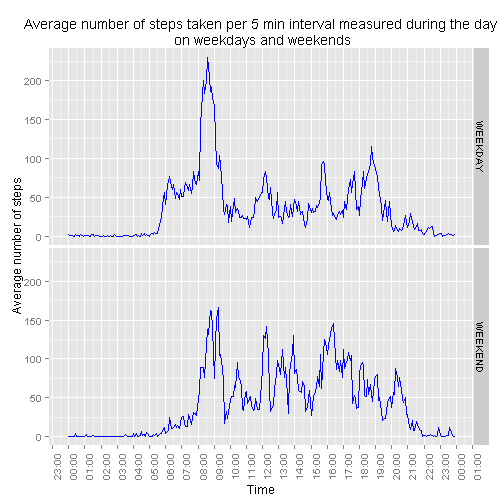
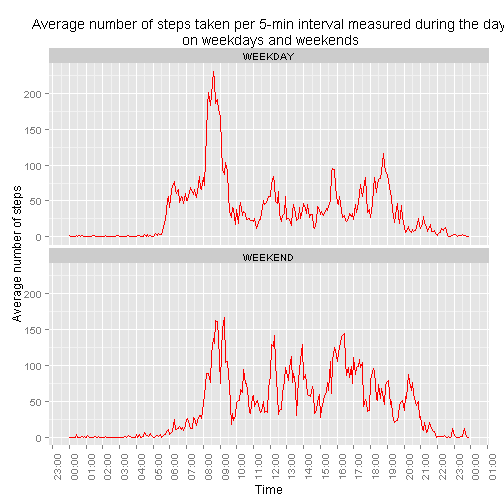
commit 2
Peer Assessment 1

diff --git a/PA1_template.html b/PA1_template.html
@@ -3,7 +3,7 @@
 <head>
 <meta http-equiv="Content-Type" content="text/html; charset=utf-8"/>
 
-<title>Loading and preprocessing the data</title>
+<title>Reproducible Research: Peer Assessment 1</title>
 
 <script type="text/javascript">
 window.onload = function() {
@@ -201,6 +201,8 @@ hr {
 </head>
 
 <body>
+<h2>Reproducible Research: Peer Assessment 1</h2>
+
 <p>Dataset used in this report contains measurements from a personal activity monitoring device. This device collects data at 5 minute intervals through out the day. The data consists of two months of data from an anonymous individual collected during the months of October and November, 2012 and include the number of steps taken in 5 minute intervals each day. The dataset can be downloaded from <a href="https://d396qusza40orc.cloudfront.net/repdata%2Fdata%2Factivity.zip">https://d396qusza40orc.cloudfront.net/repdata%2Fdata%2Factivity.zip</a>  </p>
 
 <p>The variables included in this dataset are:</p>
@@ -275,6 +277,8 @@ g1
 <pre><code>## [1] 10766.19
 </code></pre>
 
+<p>Mean of total number of steps taken per day is 10,766.19</p>
+
 <ol>
 <li>Calculate median of total number of steps taken per day:</li>
 </ol>
@@ -284,6 +288,8 @@ g1
 
 <pre><code>## [1] 10765
 </code></pre>
+
+<p>Median of total number of steps taken per day is 10,765</p>
 
 <h2>What is the average daily activity pattern?</h2>
 
@@ -306,18 +312,18 @@ g1
 </code></pre>
 
 <ol>
-<li>Make time series plot of average number of steps per time interval</li>
+<li>Make time series plot of the 5-minute interval (<strong>time_interval</strong> on x-axis) and the average number of steps taken averaged across all days (<strong>meanSteps</strong> on y-axis)</li>
 </ol>
 
 <pre><code class="r">g2 &lt;- ggplot(mean_by_interval, aes(time_interval, meanSteps))
 g2 &lt;- g2 + geom_line(color = &#39;blue&#39;)
 g2 &lt;- g2 + scale_x_datetime(breaks = date_breaks(&quot;60 min&quot;), minor_breaks = date_breaks(&quot;30 min&quot;), labels=date_format(&quot;%H:%M&quot;))
 g2 &lt;- g2 + theme(axis.text.x = element_text(angle = 90))
-g2 &lt;- g2 + labs(title = &#39;Average number of steps taken per 5 min interval measured during the day&#39;,x = &#39;Time&#39;, y = &#39;Average number of steps&#39;)
+g2 &lt;- g2 + labs(title = &#39;Average number of steps taken per 5-min interval measured during the day&#39;,x = &#39;Time&#39;, y = &#39;Average number of steps&#39;)
 g2
 </code></pre>
 
[2 lines of base64/hex data omitted]
 
 <ol>
 <li>Find 5-minute interval, on average across all the days in the dataset, that contains the maximum number of steps</li>
@@ -350,10 +356,10 @@ g2
 <p>Dateset has 2,304 rows with missing values.</p>
 
 <ol>
-<li>Create new dataset <strong>i_full_set</strong> with imputed values - missing steps value is replaced with rounded average number of steps for that interval across all days</li>
+<li>Create new dataset <strong>i_full_set</strong> with imputed values - missing steps value is replaced with average number of steps for that interval across all days</li>
 </ol>
 
-<pre><code class="r">i_full_set &lt;- ddply(full_set, .(interval), function(df) {df$steps[is.na(df$steps)] &lt;- round(mean(df$steps, na.rm=TRUE)); return(df)})
+<pre><code class="r">i_full_set &lt;- ddply(full_set, .(interval), function(df) {df$steps[is.na(df$steps)] &lt;- mean(df$steps, na.rm=TRUE); return(df)})
 </code></pre>
 
 <ol>
@@ -368,12 +374,12 @@ g2
 </ol>
 
 <pre><code class="r">g3&lt;-ggplot(i_total_by_day, aes(x=totalSteps)) + geom_histogram(binwidth=500,color=&quot;black&quot;, fill=&quot;white&quot;)
-g3&lt;-g3 + labs(title = &#39;Distribution of total steps taken per day (missing values imputed by average)&#39;,x = &#39;Total number of steps per day (binwidth = 500 steps)&#39;, y = &#39;Frequency&#39;)
+g3&lt;-g3 + labs(title = &#39;Distribution of total steps taken per day (missing values replaced by average)&#39;,x = &#39;Total number of steps per day (binwidth = 500 steps)&#39;, y = &#39;Frequency&#39;)
 g3&lt;-g3+scale_x_continuous(breaks=seq(0,30000,by=2000))
 g3
 </code></pre>
 
[2 lines of base64/hex data omitted]
 
 <ol>
 <li>Calculate mean of total number of steps taken per day:</li>
@@ -382,8 +388,10 @@ g3
 <pre><code class="r">mean(i_total_by_day$totalSteps)
 </code></pre>
 
-<pre><code>## [1] 10765.64
+<pre><code>## [1] 10766.19
 </code></pre>
+
+<p>Mean of total number of steps taken per day is 10,766.19 and it is the same for dataset without missing values and for dataset with imputed missing values because missing values were replaced by average (mean) number of steps per interval. </p>
 
 <ol>
 <li>Calculate median of total number of steps taken per day:</li>
@@ -392,10 +400,10 @@ g3
 <pre><code class="r">median(i_total_by_day$totalSteps)
 </code></pre>
 
-<pre><code>## [1] 10762
+<pre><code>## [1] 10766.19
 </code></pre>
 
-<p>Mean and median of total number of steps taken per day are slightly different between dataset with removed missing values and dataset with values replaced by average number of steps per interval. Mean is 10,766.19 for dataset without missing values and 10,765.64 for dataset with imputed missing values. Median is 10,765 for dataset without missing values and 10,762 for dataset with imputed missing values. </p>
+<p>Median of total number of steps taken per day is 10,765 for dataset without missing values and 10,766.19 - the same as mean - for dataset with imputed missing values replaced by average value of steps per interval. </p>
 
 <h2>Are there differences in activity patterns between weekdays and weekends?</h2>
 
@@ -426,19 +434,19 @@ i_full_set$dtype &lt;- as.factor(i_full_set$dtype)
 </code></pre>
 
 <ol>
-<li> Make time series plot with panels (facets) for each day type of the 5-minute interval (x-axis) and the average number of steps taken, averaged across all weekday days or weekend days (y-axis). </li>
+<li> Make time series plot of the 5-minute interval (<strong>time_interval</strong> on x-axis) and the average number of steps taken averaged across alldays (<strong>meanSteps</strong> on y-axis) per each day type (panel/facet by <strong>dtype</strong>)</li>
 </ol>
 
 <pre><code class="r">g4 &lt;- ggplot(i_mean_by_interval, aes(time_interval, meanSteps))
-g4 &lt;- g4+facet_grid(dtype~.)
-g4 &lt;- g4 + geom_line(color = &#39;blue&#39;)
+g4 &lt;- g4 + geom_line(color = &#39;red&#39;)
+g4 &lt;- g4 + facet_wrap(~dtype, ncol = 1)
 g4 &lt;- g4 + scale_x_datetime(breaks = date_breaks(&quot;60 min&quot;), minor_breaks = date_breaks(&quot;30 min&quot;), labels=date_format(&quot;%H:%M&quot;))
 g4 &lt;- g4 + theme(axis.text.x = element_text(angle = 90))
-g4 &lt;- g4 + labs(title = &#39;Average number of steps taken per 5 min interval measured during the day\n on weekdays and weekends&#39;,x = &#39;Time&#39;, y = &#39;Average number of steps&#39;)
+g4 &lt;- g4 + labs(title = &#39;Average number of steps taken per 5-min interval measured during the day\n on weekdays and weekends&#39;,x = &#39;Time&#39;, y = &#39;Average number of steps&#39;)
 g4
 </code></pre>
 
[2 lines of base64/hex data omitted]
 
 <ol>
 <li>Find 5-minute interval, on average across all the days in the dataset, that contains the maximum number of steps for weekdays and for weekends</li>

diff --git a/PA1_template.md b/PA1_template.md
@@ -4,6 +4,8 @@ output:
   html_document:
     keep_md: true
 ---
+
+## Reproducible Research: Peer Assessment 1
 Dataset used in this report contains measurements from a personal activity monitoring device. This device collects data at 5 minute intervals through out the day. The data consists of two months of data from an anonymous individual collected during the months of October and November, 2012 and include the number of steps taken in 5 minute intervals each day. The dataset can be downloaded from https://d396qusza40orc.cloudfront.net/repdata%2Fdata%2Factivity.zip  
 
 The variables included in this dataset are:
@@ -84,6 +86,7 @@ mean(total_by_day$totalSteps)
 ```
 ## [1] 10766.19
 ```
+Mean of total number of steps taken per day is 10,766.19
 
 4. Calculate median of total number of steps taken per day:
 
@@ -94,8 +97,7 @@ median(total_by_day$totalSteps)
 ```
 ## [1] 10765
 ```
-
-
+Median of total number of steps taken per day is 10,765
 
 
 ## What is the average daily activity pattern?
@@ -114,14 +116,14 @@ mean_by_interval<-ddply(set_wout_na, c("interval"), summarise, meanSteps = mean(
 mean_by_interval <-mutate(mean_by_interval,time_interval= strptime(sprintf("%02d:%02d", interval %/% 100,interval %% 100), format="%H:%M"))
 ```
 
-3. Make time series plot of average number of steps per time interval
+3. Make time series plot of the 5-minute interval (**time_interval** on x-axis) and the average number of steps taken averaged across all days (**meanSteps** on y-axis)
 
 ```r
 g2 <- ggplot(mean_by_interval, aes(time_interval, meanSteps))
 g2 <- g2 + geom_line(color = 'blue')
 g2 <- g2 + scale_x_datetime(breaks = date_breaks("60 min"), minor_breaks = date_breaks("30 min"), labels=date_format("%H:%M"))
 g2 <- g2 + theme(axis.text.x = element_text(angle = 90))
-g2 <- g2 + labs(title = 'Average number of steps taken per 5 min interval measured during the day',x = 'Time', y = 'Average number of steps')
+g2 <- g2 + labs(title = 'Average number of steps taken per 5-min interval measured during the day',x = 'Time', y = 'Average number of steps')
 g2
 ```
 
@@ -154,10 +156,10 @@ length(which(is.na(full_set$step)))
 ```
 Dateset has 2,304 rows with missing values.
 
-2. Create new dataset **i_full_set** with imputed values - missing steps value is replaced with rounded average number of steps for that interval across all days
+2. Create new dataset **i_full_set** with imputed values - missing steps value is replaced with average number of steps for that interval across all days
 
 ```r
-i_full_set <- ddply(full_set, .(interval), function(df) {df$steps[is.na(df$steps)] <- round(mean(df$steps, na.rm=TRUE)); return(df)})
+i_full_set <- ddply(full_set, .(interval), function(df) {df$steps[is.na(df$steps)] <- mean(df$steps, na.rm=TRUE); return(df)})
 ```
 
 3. Create new data frame *i_total_by_day* from imputed dataset using function ddply with variable **steps** summarized accros **date** values and stored as **totalSteps**:
@@ -171,7 +173,7 @@ i_total_by_day<-ddply(i_full_set, c("date"), summarise, totalSteps = sum(as.nume
 
 ```r
 g3<-ggplot(i_total_by_day, aes(x=totalSteps)) + geom_histogram(binwidth=500,color="black", fill="white")
-g3<-g3 + labs(title = 'Distribution of total steps taken per day (missing values imputed by average)',x = 'Total number of steps per day (binwidth = 500 steps)', y = 'Frequency')
+g3<-g3 + labs(title = 'Distribution of total steps taken per day (missing values replaced by average)',x = 'Total number of steps per day (binwidth = 500 steps)', y = 'Frequency')
 g3<-g3+scale_x_continuous(breaks=seq(0,30000,by=2000))
 g3
 ```
@@ -186,8 +188,9 @@ mean(i_total_by_day$totalSteps)
 ```
 
 ```
-## [1] 10765.64
+## [1] 10766.19
 ```
+Mean of total number of steps taken per day is 10,766.19 and it is the same for dataset without missing values and for dataset with imputed missing values because missing values were replaced by average (mean) number of steps per interval. 
 
 6. Calculate median of total number of steps taken per day:
 
@@ -196,10 +199,9 @@ median(i_total_by_day$totalSteps)
 ```
 
 ```
-## [1] 10762
+## [1] 10766.19
 ```
-
-Mean and median of total number of steps taken per day are slightly different between dataset with removed missing values and dataset with values replaced by average number of steps per interval. Mean is 10,766.19 for dataset without missing values and 10,765.64 for dataset with imputed missing values. Median is 10,765 for dataset without missing values and 10,762 for dataset with imputed missing values. 
+Median of total number of steps taken per day is 10,765 for dataset without missing values and 10,766.19 - the same as mean - for dataset with imputed missing values replaced by average value of steps per interval. 
 
 
 ## Are there differences in activity patterns between weekdays and weekends?
@@ -224,15 +226,15 @@ i_mean_by_interval<-ddply(i_full_set, c("interval","dtype"), summarise, meanStep
 i_mean_by_interval <-mutate(i_mean_by_interval,time_interval= strptime(sprintf("%02d:%02d", interval %/% 100,interval %% 100), format="%H:%M"))
 ```
 
-4.  Make time series plot with panels (facets) for each day type of the 5-minute interval (x-axis) and the average number of steps taken, averaged across all weekday days or weekend days (y-axis). 
+4.  Make time series plot of the 5-minute interval (**time_interval** on x-axis) and the average number of steps taken averaged across alldays (**meanSteps** on y-axis) per each day type (panel/facet by **dtype**)
 
 ```r
 g4 <- ggplot(i_mean_by_interval, aes(time_interval, meanSteps))
-g4 <- g4+facet_grid(dtype~.)
-g4 <- g4 + geom_line(color = 'blue')
+g4 <- g4 + geom_line(color = 'red')
+g4 <- g4 + facet_wrap(~dtype, ncol = 1)
 g4 <- g4 + scale_x_datetime(breaks = date_breaks("60 min"), minor_breaks = date_breaks("30 min"), labels=date_format("%H:%M"))
 g4 <- g4 + theme(axis.text.x = element_text(angle = 90))
-g4 <- g4 + labs(title = 'Average number of steps taken per 5 min interval measured during the day\n on weekdays and weekends',x = 'Time', y = 'Average number of steps')
+g4 <- g4 + labs(title = 'Average number of steps taken per 5-min interval measured during the day\n on weekdays and weekends',x = 'Time', y = 'Average number of steps')
 g4
 ```
 
@@ -250,4 +252,5 @@ ddply(i_mean_by_interval, .(dtype), summarize, interval=interval[which.max(meanS
 ## 2 WEEKEND      915
 ```
 For weekdays interval with maximum number of steps is 08:30-08:35 and for weekends interval with maximum number of steps is 09:10-09:15
+
 
